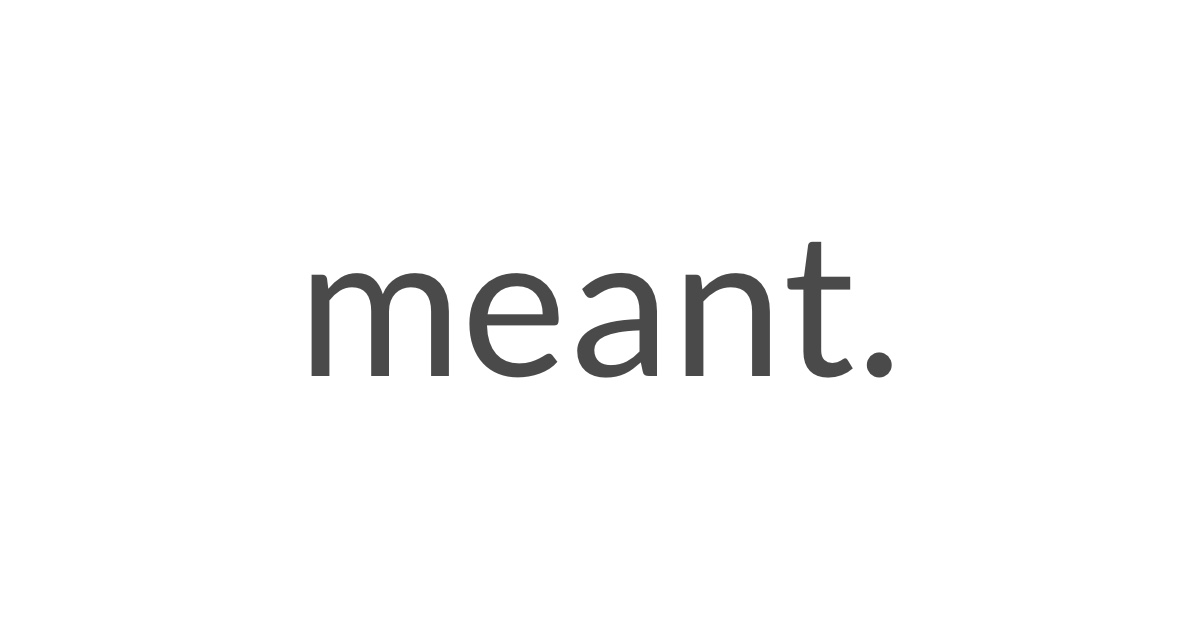
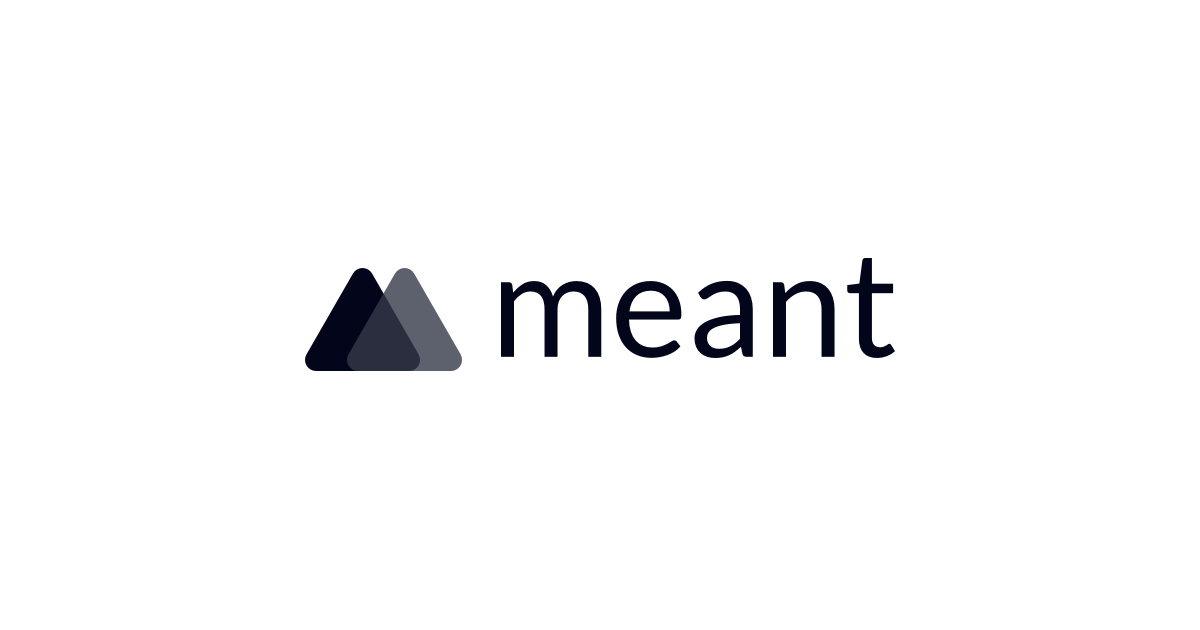
new hotjar code + social image up to date

Changed region(s): [[0.2467, 0.3921, 0.74, 0.6032]]

diff --git a/src/index.html b/src/index.html
@@ -53,7 +53,7 @@
     <script>
       (function(h,o,t,j,a,r){
           h.hj=h.hj||function(){(h.hj.q=h.hj.q||[]).push(arguments)};
-          h._hjSettings={hjid:1066985,hjsv:6};
+          h._hjSettings={hjid:1090059,hjsv:6};
           a=o.getElementsByTagName('head')[0];
           r=o.createElement('script');r.async=1;
           r.src=t+h._hjSettings.hjid+j+h._hjSettings.hjsv;
